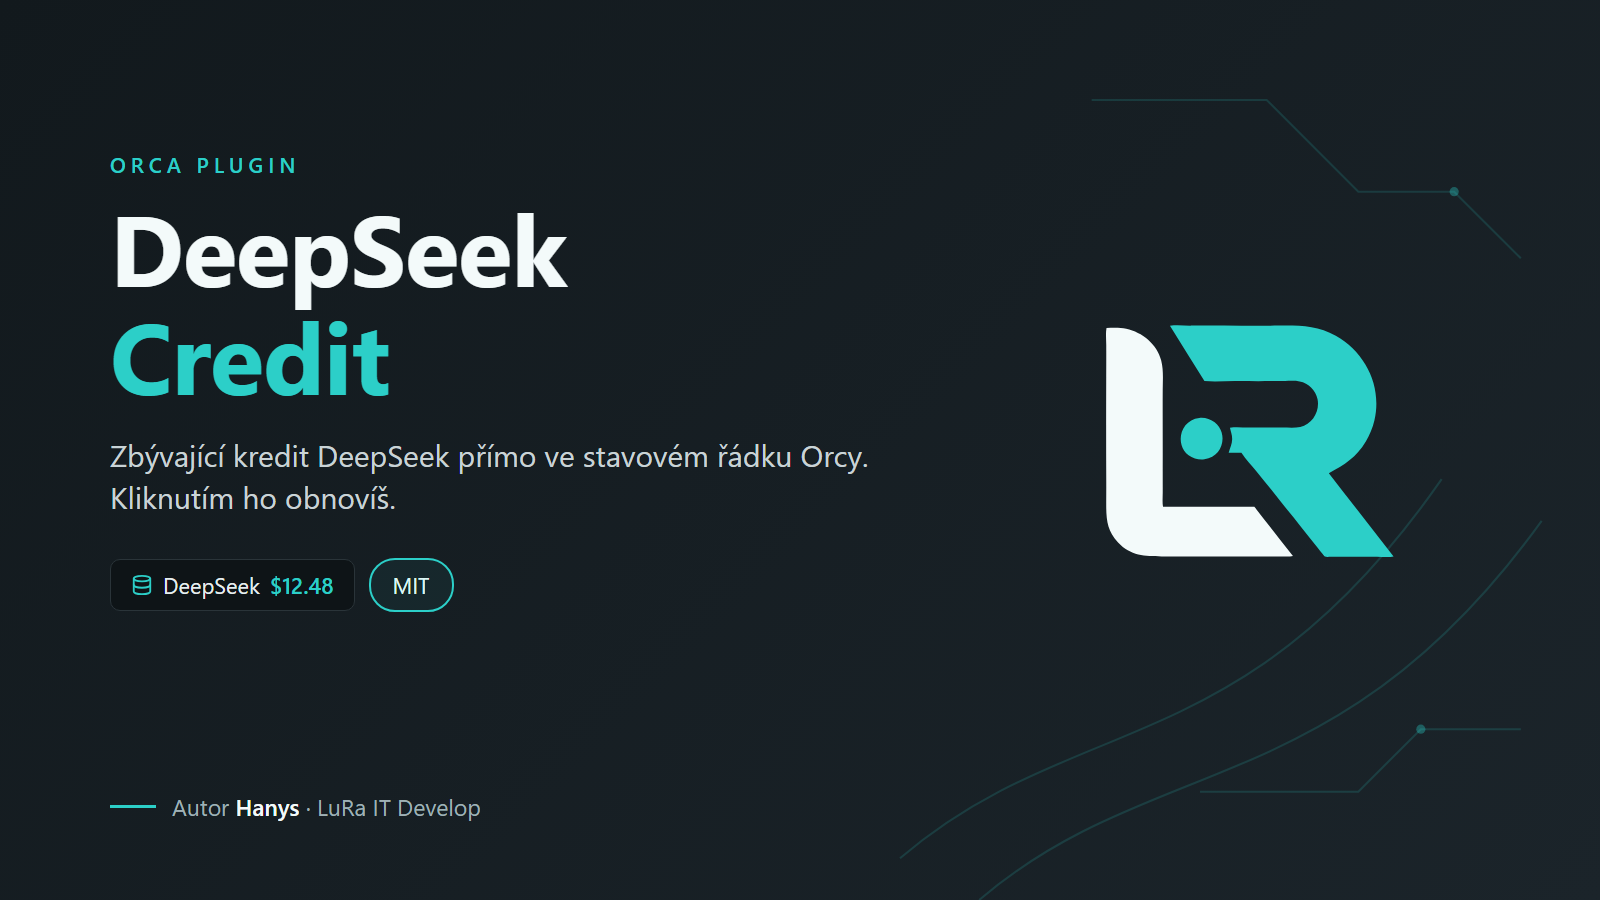
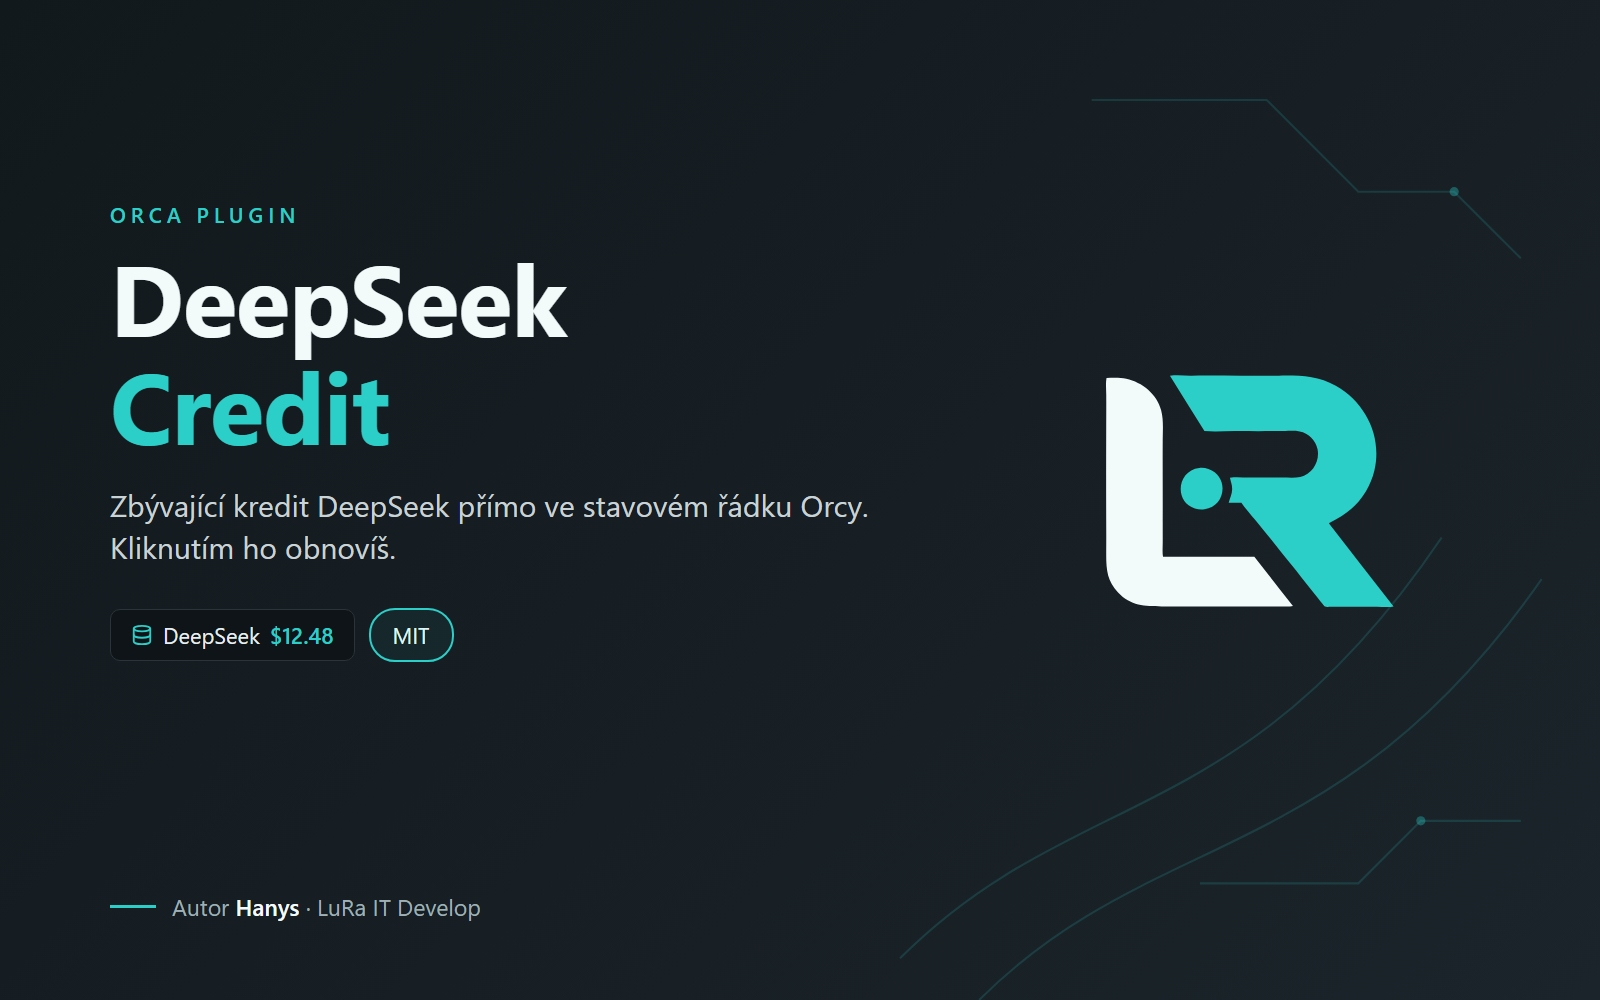
Připrav plugin pro veřejný katalog Orcy
- Manifest odkazuje na repozitář, domovskou stránku a profil autora; `publisher` vynechán, protože ho katalog ignoruje a vydavatele určuje vlastník repa.
- Cover přegenerován na 1600×1000 (16:10), jak katalog doporučuje.

diff --git a/assets/cover.html b/assets/cover.html
@@ -1,10 +1,10 @@
 <!doctype html>
 <html><head><meta charset="utf-8">
 <style>
-  html,body{margin:0;width:1600px;height:900px;overflow:hidden}
+  html,body{margin:0;width:1600px;height:1000px;overflow:hidden}
   body{background:linear-gradient(135deg,#12191D 0%,#1B242A 100%);font-family:"Segoe UI",sans-serif;position:relative;color:#F3FAFA}
   svg.deco{position:absolute;inset:0}
-  .text{position:absolute;left:110px;top:150px;width:760px}
+  .text{position:absolute;left:110px;top:200px;width:760px}
   .eyebrow{font-size:21px;font-weight:600;letter-spacing:5px;color:#2CCFC8}
   h1{margin:14px 0 0;font-size:100px;line-height:108px;font-weight:700;letter-spacing:-1px}
   h1 span{color:#2CCFC8}
@@ -18,17 +18,17 @@
   .footer i{display:block;width:46px;height:3px;background:#2CCFC8}
   .footer strong{color:#F3FAFA;font-weight:600}
 </style></head><body>
-<svg class="deco" width="1600" height="900" viewBox="0 0 3840 2160">
+<svg class="deco" width="1600" height="1000" viewBox="0 0 3840 2400">
   <g fill="none" stroke="#2CCFC8" stroke-width="5" opacity="0.16">
-    <path d="M2160 2060 C2580 1700 2980 1840 3460 1150"/>
-    <path d="M2350 2160 C2770 1800 3210 1930 3700 1250"/>
+    <path d="M2160 2300 C2580 1880 2980 2000 3460 1290"/>
+    <path d="M2350 2400 C2770 1980 3210 2090 3700 1390"/>
     <path d="M2620 240 H3040 L3260 460 H3490 L3650 620"/>
-    <path d="M2880 1900 H3260 L3410 1750 H3650"/>
+    <path d="M2880 2120 H3260 L3410 1970 H3650"/>
   </g>
   <g fill="#2CCFC8" opacity="0.35">
-    <circle cx="3490" cy="460" r="11"/><circle cx="3410" cy="1750" r="11"/>
+    <circle cx="3490" cy="460" r="11"/><circle cx="3410" cy="1970" r="11"/>
   </g>
-  <g transform="translate(3000 1060) scale(1.25) translate(-560 -430)">
+  <g transform="translate(3000 1180) scale(1.25) translate(-560 -430)">
     <path d="M284.5 211.83C296.75 210.98 310.36 210.56 322.42 213.23C353.17 220.03 381.38 242.65 389.51 273.97C394.31 292.48 392.52 312.53 392.43 331.5C392.18 381.16 392.57 430.83 392.43 480.5C392.39 496.17 392.53 511.830 392.46 527.5C392.42 536.47 391.47 546.14 392.98 554.98C451.44 554.98 509.9 554.98 568.35 554.98C593.07 586.51 617.78 618.03 642.5 649.55C634.39 651.52 624.9 650.27 616.5 650.34C598.84 650.49 581.17 650.32 563.5 650.34C507.83 650.41 452.17 650.3 396.5 650.35C362.23 650.38 331.98 651.04 306.71 623.78C286.39 601.85 284.05 581.33 283.93 552.5C283.88 538.5 284.08 524.5 284.02 510.5C283.72 442.17 283.71 373.83 283.930 305.5C284 285.17 284.07 264.83 284 244.5C283.96 234.34 282.56 221.61 284.5 211.83Z" fill="#F3FAFA" fill-rule="evenodd"/>
     <path d="M711.38 490.5C752.81 543.83 794.25 597.17 835.69 650.5C826.02 652.35 813.52 650.86 803.5 650.87C783.17 650.88 762.83 651.06 742.5 650.95C733.5 650.89 724.5 650.96 715.5 650.93C712.04 650.92 707.08 651.75 703.79 650.56C702.04 649.93 700.69 647.3 699.57 645.91C696.29 641.85 693.05 637.8 689.86 633.68C679.56 620.36 668.55 607.56 658.42 594.1C646.03 577.64 632.27 562.14 619.6 545.89C604.31 526.28 588.7 506.83 572.93 487.6C563.14 475.66 552.13 463.95 543.5 451.19C535.35 451.19 527.21 451.19 519.06 451.19C521.58 442.64 525.58 434.65 525.75 425.5C525.92 416.4 523.09 411.42 521.5 403.34C533.14 401.67 545.72 402.99 557.5 403.02C578.83 403.07 600.17 402.91 621.5 402.91C632.9 402.91 645.27 404.32 656.47 401.88C680.17 396.74 694.31 371.63 689.71 348.61C686.28 331.46 672.67 317.5 655.31 314.35C646.27 312.71 636.55 313.4 627.4 313.51C595.11 313.9 562.79 313.71 530.5 313.74C511.28 313.76 491.67 315.01 472.5 313.67C450.43 278.28 428.36 242.89 406.3 207.5C419.64 205.59 434.02 207.35 447.5 207.2C481.83 206.83 516.17 207.31 550.5 207.24C572.16 207.19 593.84 207.37 615.5 207.2C654.91 206.89 689.35 206.68 724.73 226.76C782.04 259.27 814.08 324.14 798.85 389.45C795.57 403.52 789.77 417.470 782.38 429.88C764.98 459.12 741.12 475.65 711.38 490.5ZM462.63 384.4C468.54 383.78 474.61 384.42 480.23 386.34C520.17 399.97 514.48 458.75 472.5 463.91C466.45 464.65 460.05 464.2 454.21 462.38C413.45 449.7 420.15 388.81 462.63 384.4Z" fill="#2CCFC8" fill-rule="evenodd"/>
   </g>

diff --git a/README.md b/README.md
@@ -58,10 +58,10 @@ orca plugin validate .
 ```
 
 Náhledový obrázek `assets/cover.png` se generuje z `assets/cover.html`. Stačí stránku vyrenderovat v headless Chrome
-s oknem 1600×900:
+s oknem 1600×1000:
 
 ```bash
-chrome --headless=new --hide-scrollbars --window-size=1600,900 --screenshot=assets/cover.png assets/cover.html
+chrome --headless=new --hide-scrollbars --window-size=1600,1000 --screenshot=assets/cover.png assets/cover.html
 ```
 
 ## Licence
